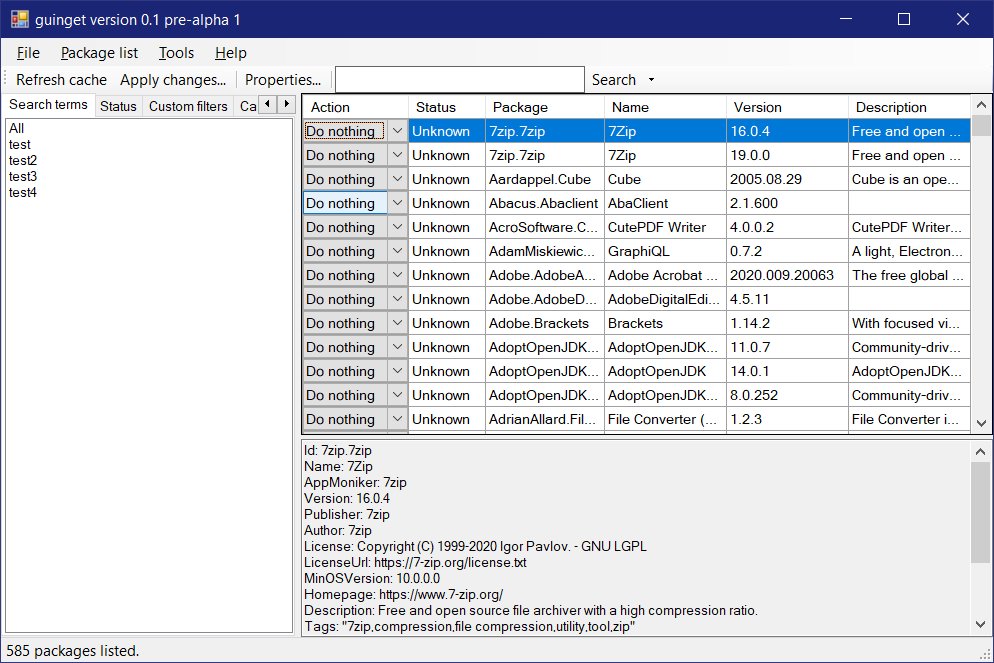
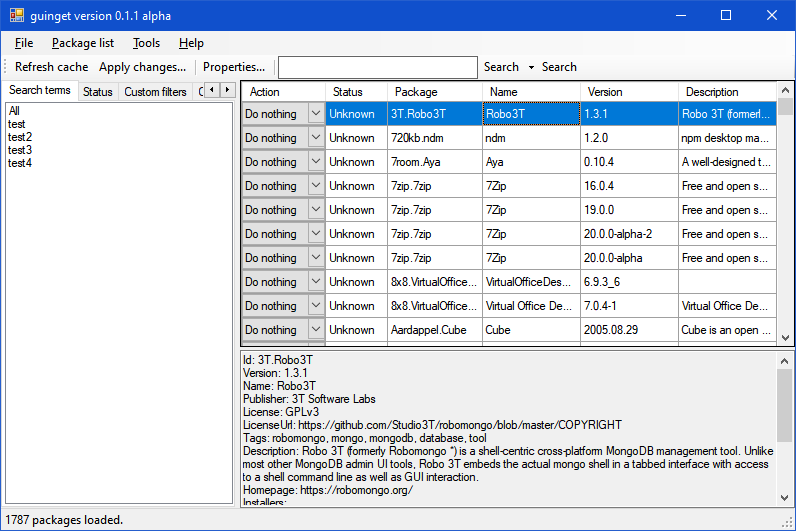
Add new screenshots.

diff --git a/README.md b/README.md
@@ -30,19 +30,17 @@ The [system requirements](https://github.com/DrewNaylor/guinget/blob/master/docs
 
 ## Screenshots
 
-The ones below are currently rather outdated, so new ones of version 0.1.1 will need to be taken.
-
-Pre-alpha 1 screenshot:
-![](/docs/images/screenshot-pre-alpha-1.png?raw=true)
+Version 0.1.1 screenshot:
+![](/docs/images/screenshot-0.1.1.png?raw=true)
 
 Packages displayed here are loaded from a package list cache stored in `%AppData%\winget-frontends\source\winget-pkgs\pkglist\manifests`, which is downloaded from `Microsoft\winget-pkgs` on GitHub. The `Refresh cache` button on the toolbar is the primary way to update these manifests. `update-manifests.bat` was the old way to do it, but it's deprecated and may be removed at any time.
 
-Loading these YAML files takes a bit at the moment, as it's not async. I'd like to make it async, but for now this is good enough. Besides, there's a progress bar and progress label at the bottom and a label that says "please wait", so it's not like the window shows nothing while it loads. One issue is the window can't be moved around while it loads, which is something async loading would fix. Something that's ended up making it faster is just loading details directly from the YAML files, bypassing `winget show -e` entirely.
+Loading these YAML files takes a bit at the moment, as it's not async. I'd like to make it async, but for now this is good enough. Besides, there's a progress bar and progress label at the bottom and a label that says "please wait", so it's not like the window shows nothing while it loads. One issue is the window can't be moved around while it loads, which is something async loading would fix.
 
 Here's what it looks like when loading the package list:
-![](/docs/images/screenshot-loading-progress-pre-alpha-1.png?raw=true)
+![](/docs/images/screenshot-loading-progress-0.1.1.png?raw=true)
 
-The data grid view that's used for the package list is hidden while loading so that things go faster, but it's shown again once all the rows are added and before the package details are filled to make it look like things are going faster. If the data grid view were still visible, it would show all the rows as they're added and slow things down until rows that aren't on screen are being added, at which point it would speed up a lot.
+The data grid view that's used for the package list is hidden while loading so that things go faster. If the data grid view were still visible, it would show all the rows as they're added and slow things down until rows that aren't on screen are being added, at which point it would speed up a lot.
 
 Currently, the `Status` column cells just have arbitrary data for now; guinget doesn't check to see if an app is installed or not yet. Package details in the textbox at the bottom are loaded directly from the YAML files.
 
